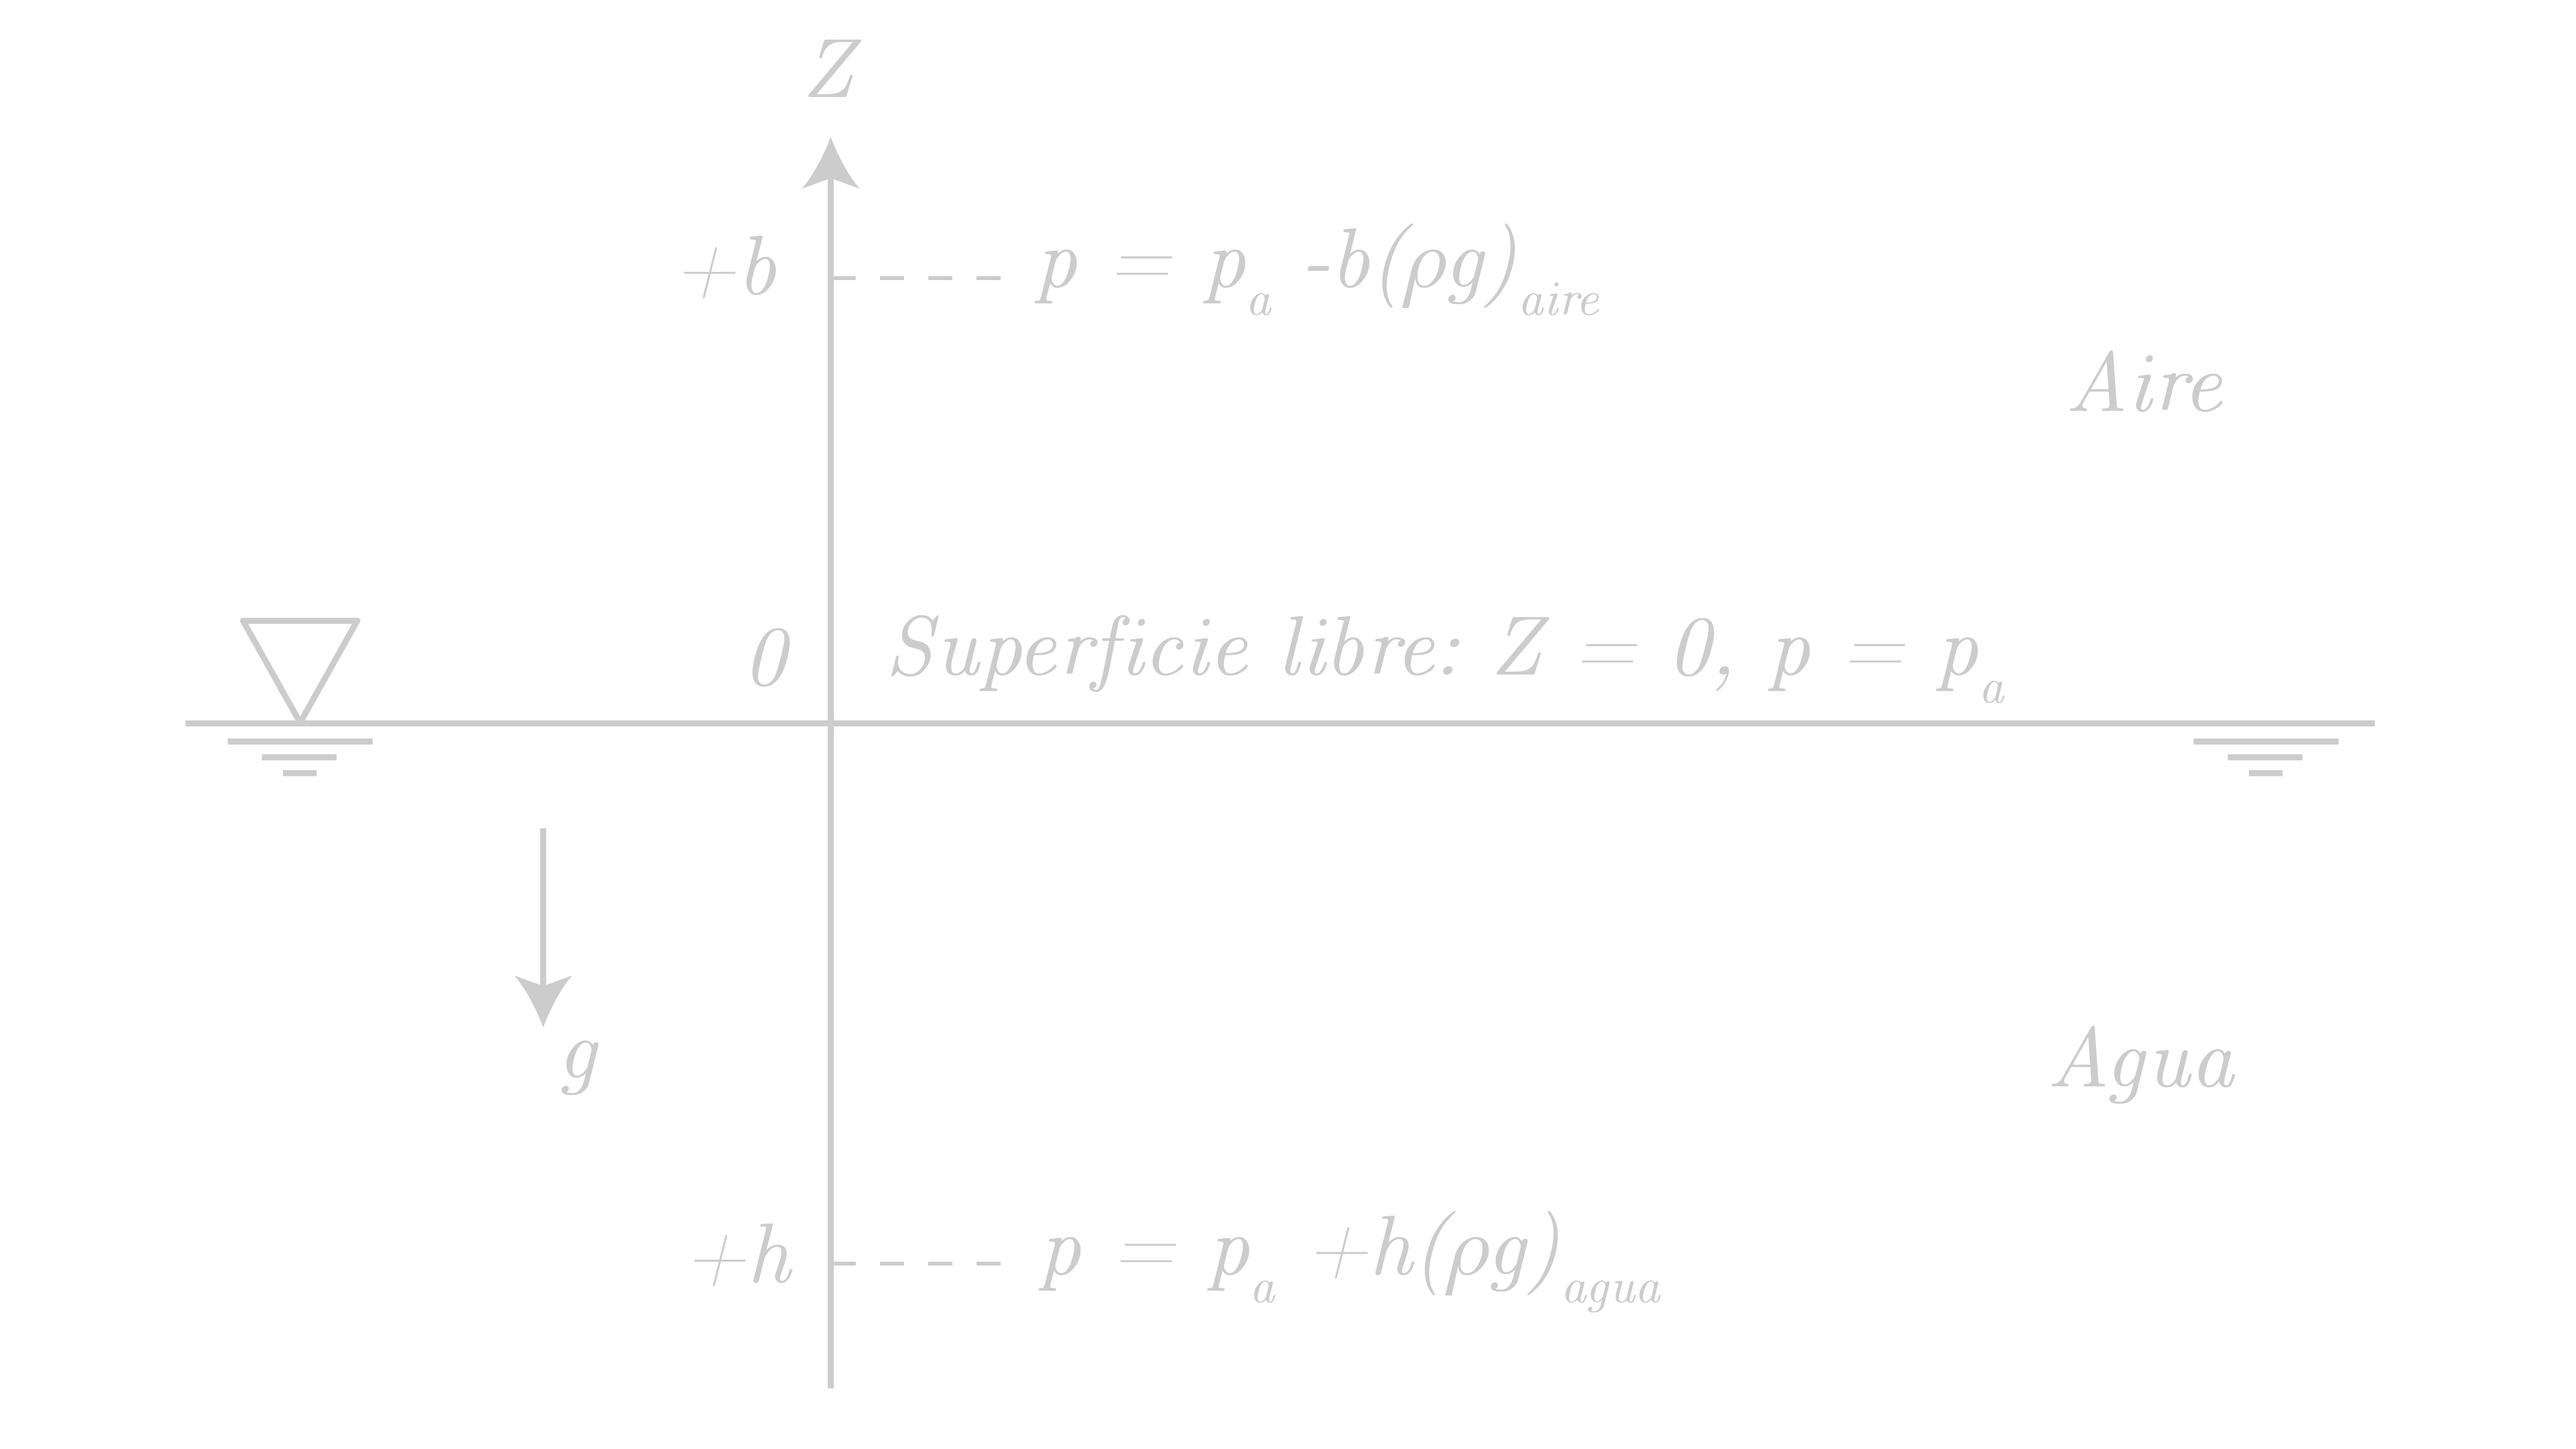
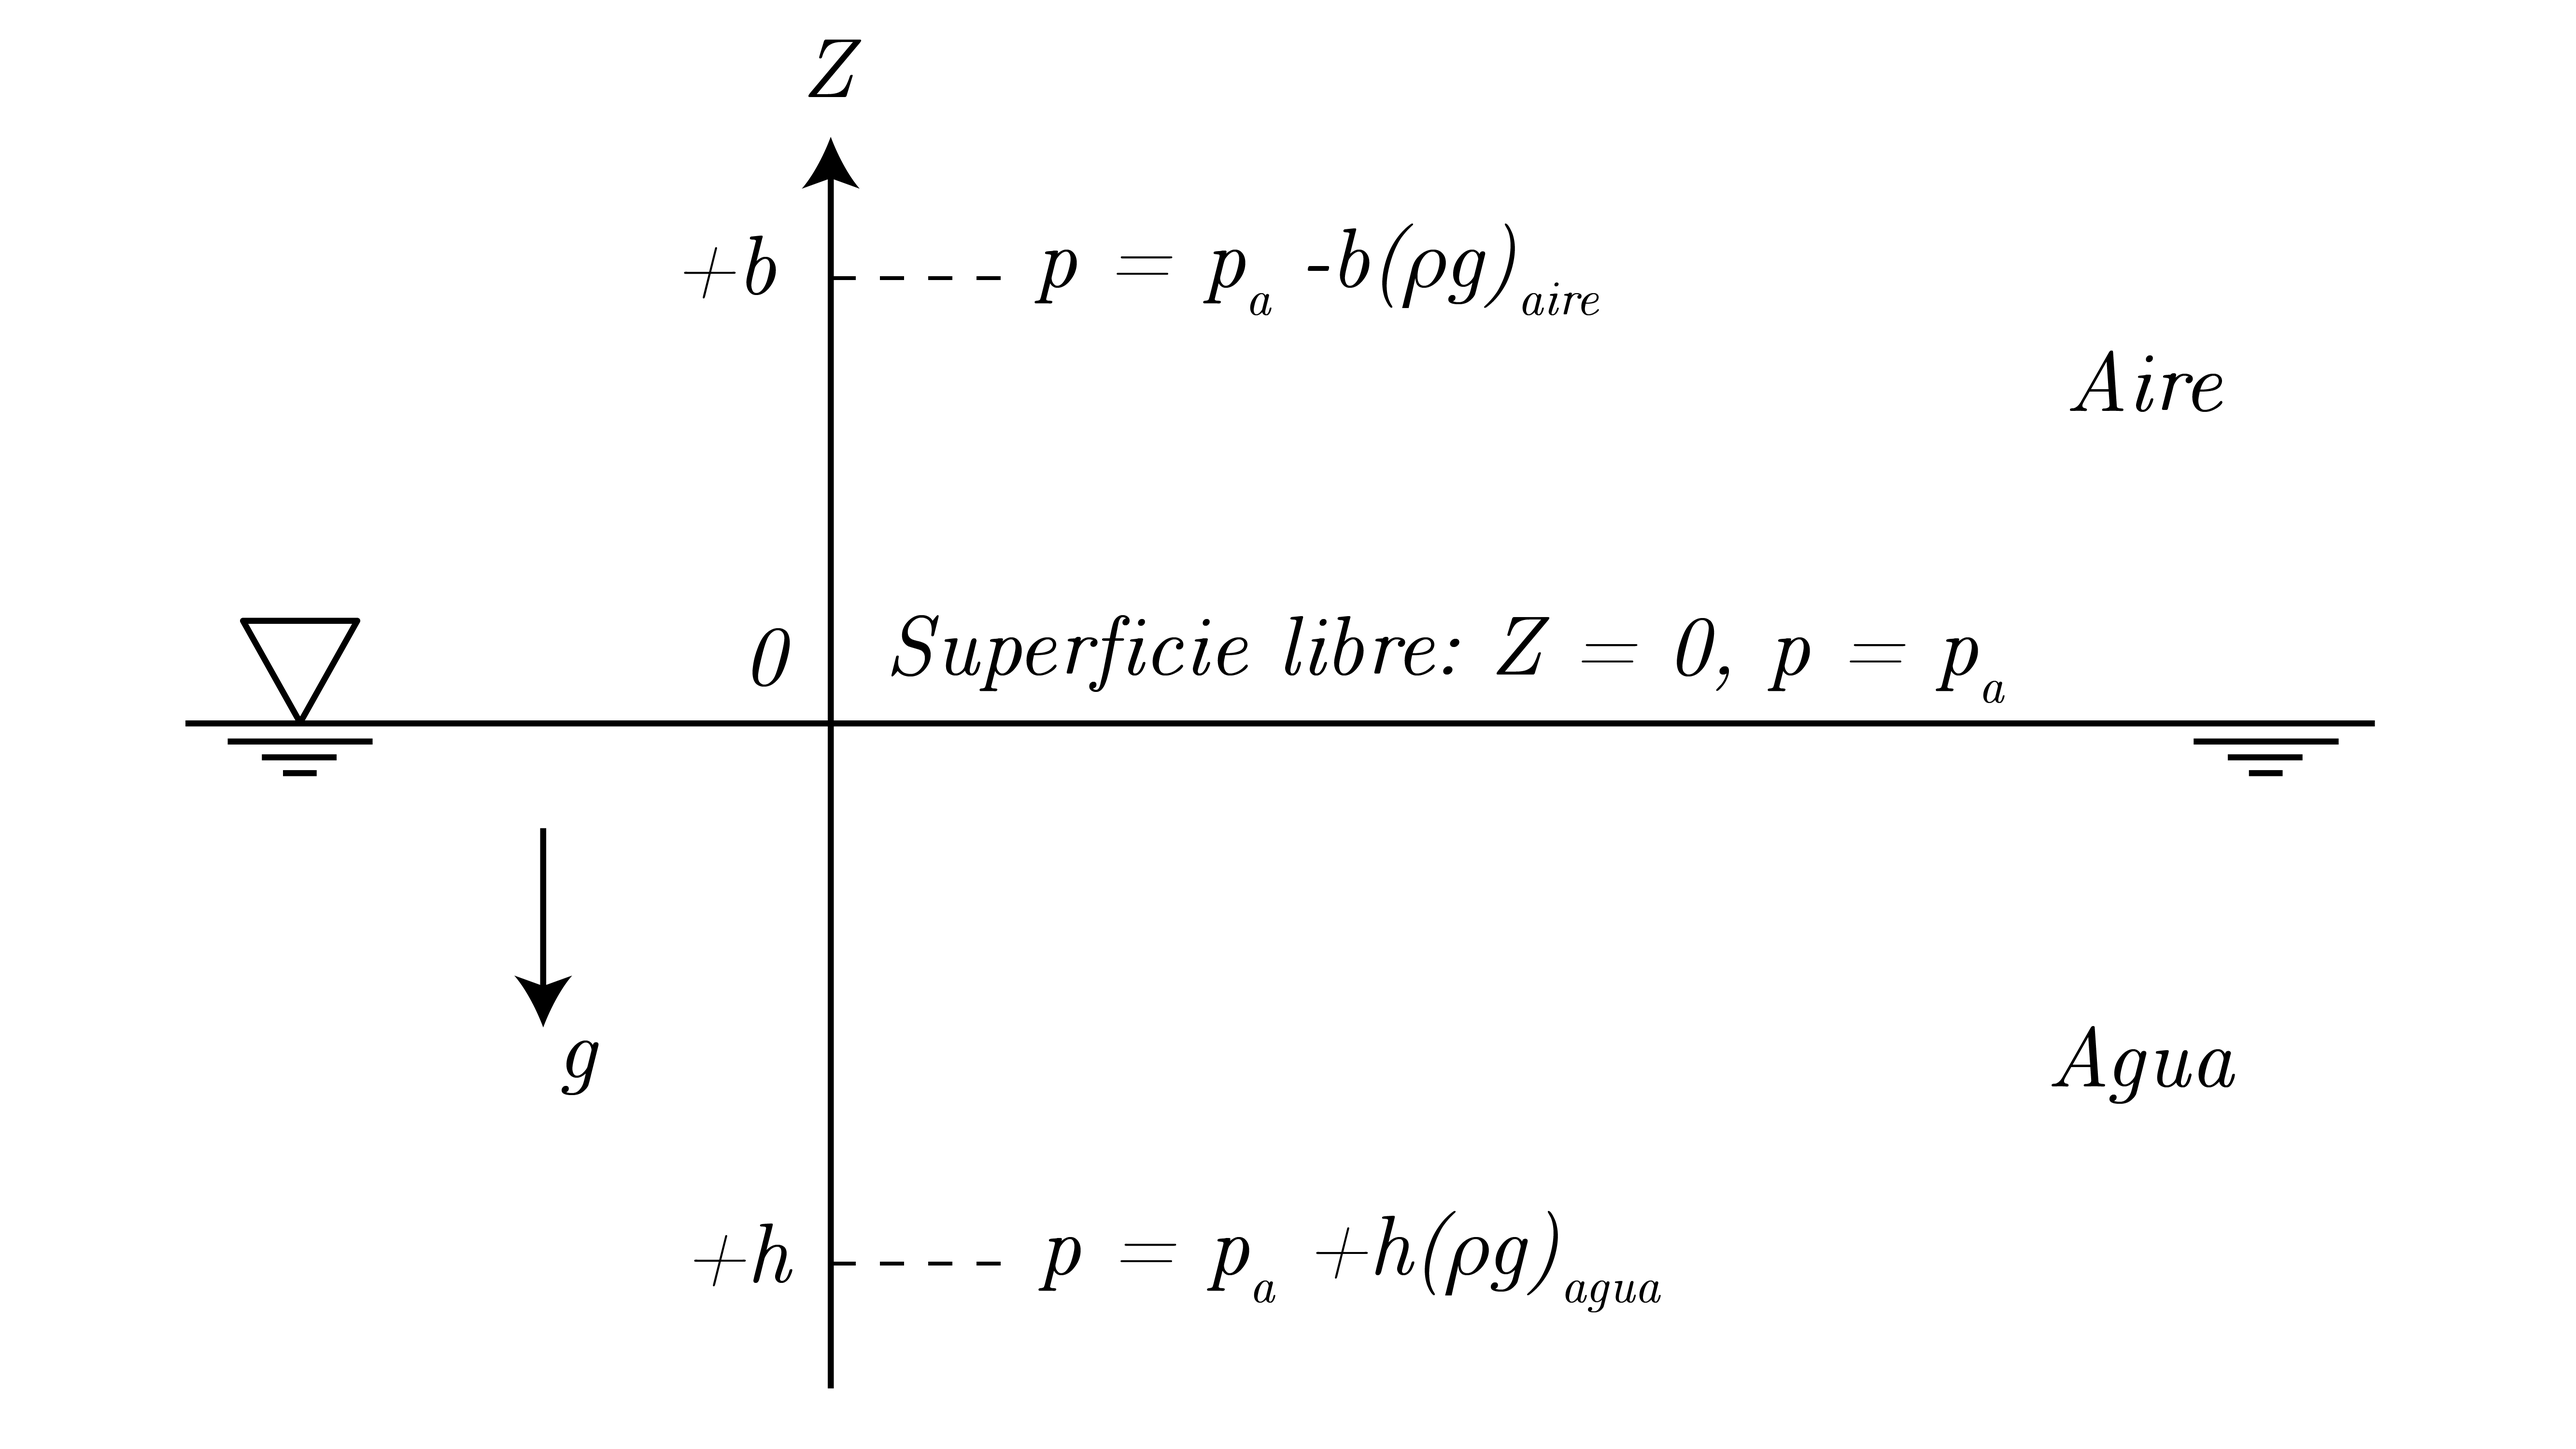
update

diff --git a/todo.md b/todo.md
@@ -2,9 +2,12 @@
 TO-DO LIST
 ---
 
-- [x] Añadir un enlace a las imágenes adjuntas a cada post de modo que se pueda hacer click en ellas.
 - [ ] Diseñar página de error *404*.
 - [ ] Filtar búsqueda por año en la página de artículos.
 - [ ] Agregar un botón de copiar al portapapeles en los bloques de código.
-- [ ] Modificar imágenes con fondo transparente (al cambiar la paleta de colores pierde visibilidad)
 - [ ] Actualizar la paleta de colores en los bloques de código (en el tema claro no hay apenas contraste)
+
+---
+
+- [x] Añadir un enlace a las imágenes adjuntas a cada post de modo que se pueda hacer click en ellas.
+- [x] Modificar imágenes con fondo transparente (al cambiar la paleta de colores pierde visibilidad)
